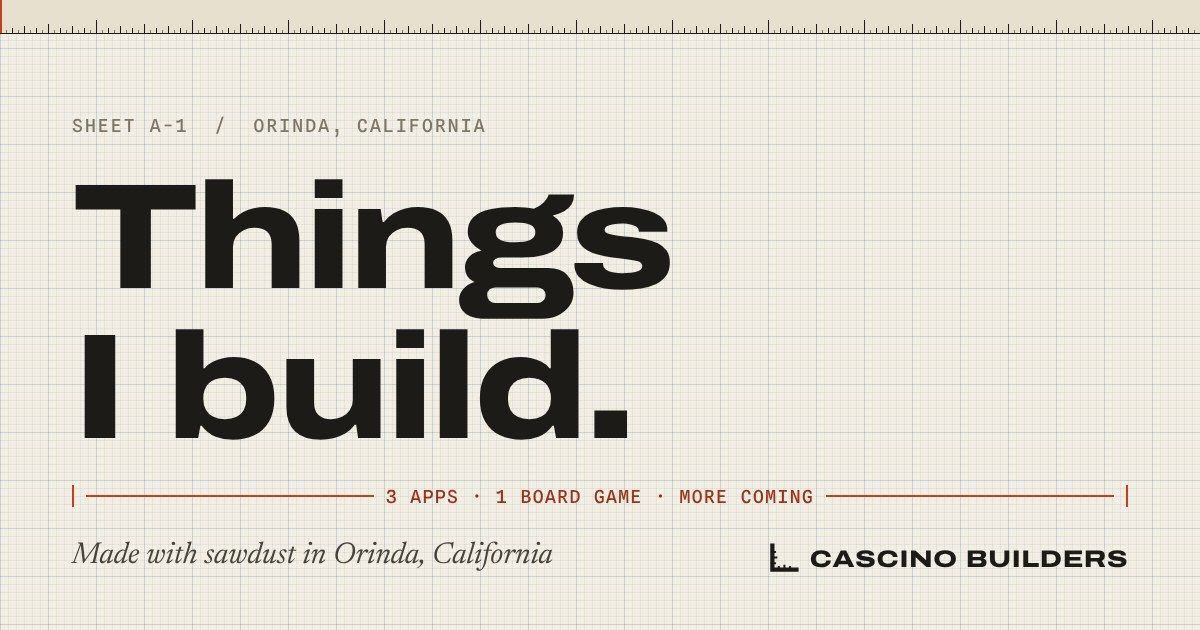
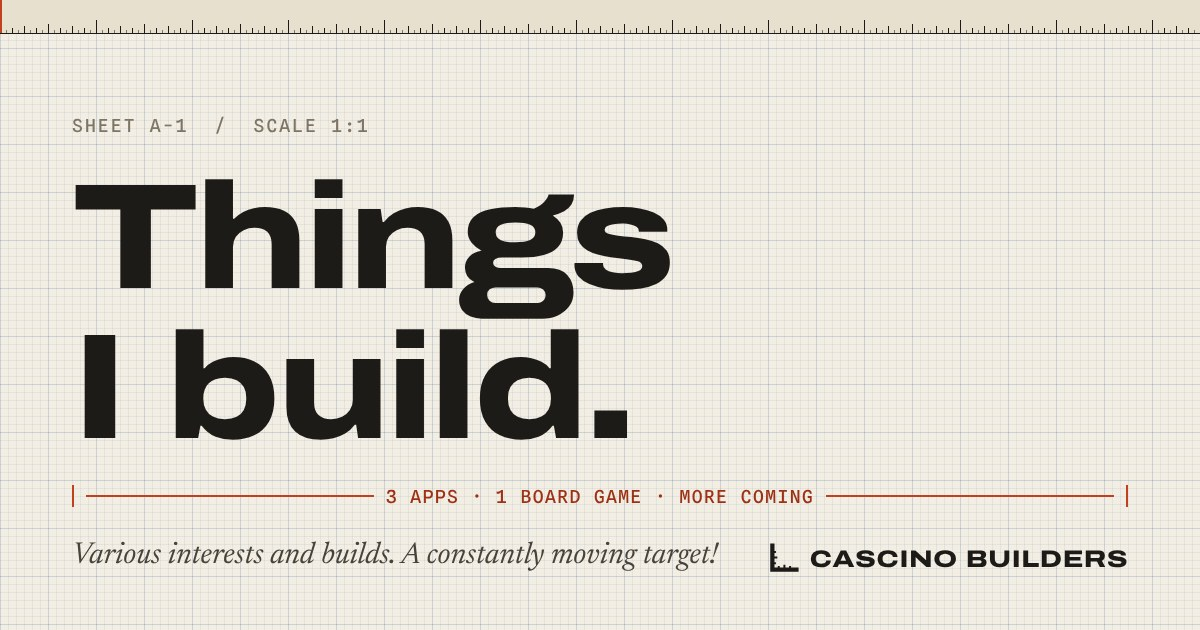
Remove location and personal details from the site
- Drop every mention of the town from pages, meta tags, the hero, the stamp,
  the title-block footer and the OG image. The footer's Location cell
  becomes a Contact link.
- CLAUDE.md: no personal details rule, and the voice notes no longer use a
  name.

Claude-Session: https://claude.ai/code/session_01YWdLQoNbp7ceFNzdbetSKz

Changed region(s): [[0.0617, 0.8444, 0.5858, 0.9048], [0.2158, 0.181, 0.4008, 0.2111]]

diff --git a/index.html b/index.html
@@ -4,7 +4,7 @@
 <meta charset="utf-8">
 <meta name="viewport" content="width=device-width, initial-scale=1, viewport-fit=cover">
 <title>Cascino Builders · Things I build</title>
-<meta name="description" content="Various interests and builds to explore those interests. iPhone and Apple Watch apps so far (StairSmith, Kitchen Counter, Rep Track), plus other stuff. Made in Orinda, California.">
+<meta name="description" content="Various interests and builds to explore those interests. iPhone and Apple Watch apps so far (StairSmith, Kitchen Counter, Rep Track), plus other stuff.">
 <meta name="theme-color" content="#f3eee3">
 <link rel="canonical" href="https://cascinobuilders.com/">
 <meta property="og:type" content="website">
@@ -14,7 +14,7 @@
 <meta property="og:image" content="https://cascinobuilders.com/og.jpg">
 <meta property="og:image:width" content="1200">
 <meta property="og:image:height" content="630">
-<meta property="og:image:alt" content="Cascino Builders: Things I build. Made with sawdust in Orinda, California.">
+<meta property="og:image:alt" content="Cascino Builders: Things I build.">
 <meta name="twitter:card" content="summary_large_image">
 <link rel="icon" href="/favicon.svg" type="image/svg+xml">
 <link rel="apple-touch-icon" href="/apple-touch-icon.png">
@@ -43,7 +43,7 @@
 
 <!-- ============ Hero ============ -->
 <section class="hero">
-  <p class="label hero-sheet"><span>Sheet A-1</span><span>Orinda, California</span><span>Scale 1:1</span></p>
+  <p class="label hero-sheet"><span>Sheet A-1</span><span>Scale 1:1</span></p>
 
   <div class="hero-title">
     <h1 class="display"><span class="w w1">Things</span> <span class="w w2">I build.</span></h1>
@@ -60,10 +60,10 @@
       <a class="btn" href="#apps">Have a look <svg viewBox="0 0 14 14" fill="none" stroke="currentColor" stroke-width="1.8" aria-hidden="true"><path d="M7 1v11M2.5 7.5 7 12l4.5-4.5"/></svg></a>
       <a class="btn ghost" href="mailto:support@cascinobuilders.com">Email me</a>
     </div>
-    <div class="stamp" aria-label="Stamp: Cascino Builders, Orinda, California">
+    <div class="stamp" aria-label="Stamp: Cascino Builders workshop">
       <span class="stamp-top">Cascino Builders</span>
-      <span class="stamp-mid">Orinda</span>
-      <span class="stamp-bot">California</span>
+      <span class="stamp-mid">Workshop</span>
+      <span class="stamp-bot">Sheet A-1</span>
     </div>
   </div>
 </section>
@@ -285,7 +285,7 @@
 <footer class="title-block">
   <div class="tb-grid">
     <div><span class="label">Project</span><span class="v">Cascino Builders</span></div>
-    <div><span class="label">Location</span><span class="v">Orinda, CA</span></div>
+    <div><span class="label">Contact</span><span class="v"><a href="mailto:support@cascinobuilders.com">Email</a></span></div>
     <div><span class="label">Sheet</span><span class="v">A-1 of 1</span></div>
     <div><span class="label">Rev.</span><span class="v">Nov 2026</span></div>
     <div class="tb-links">
@@ -296,7 +296,7 @@
       <a href="mailto:support@cascinobuilders.com">support@cascinobuilders.com</a>
     </div>
   </div>
-  <p class="tb-fine">© 2026 Cascino Builders. Made with sawdust in Orinda, California.</p>
+  <p class="tb-fine">© 2026 Cascino Builders. Made with sawdust.</p>
 </footer>
 
 <script src="/assets/site.js" defer></script>

diff --git a/kitchencounter/faq/index.html b/kitchencounter/faq/index.html
@@ -77,14 +77,14 @@
   <p>Not yet &mdash; it's on the roadmap. For now, data is stored locally and synced across your devices via iCloud.</p>
   <h2 data-n="05">Contact</h2>
   <h3>Who made Kitchen Counter?</h3>
-  <p>Built by Cascino Builders in Orinda, CA. Bug reports, feedback, or feature ideas welcome &mdash; email us or tap <strong>Send Feedback</strong> in Settings.</p>
+  <p>Built by Cascino Builders. Bug reports, feedback, or feature ideas welcome &mdash; email us or tap <strong>Send Feedback</strong> in Settings.</p>
   <a href="mailto:support@cascinobuilders.com" class="btn contact">Email Support</a>
 </main>
 
 <footer class="title-block">
   <div class="tb-grid">
     <div><span class="label">Project</span><span class="v">Kitchen Counter</span></div>
-    <div><span class="label">Location</span><span class="v">Orinda, CA</span></div>
+    <div><span class="label">Contact</span><span class="v"><a href="mailto:support@cascinobuilders.com">Email</a></span></div>
     <div><span class="label">Sheet</span><span class="v">KC-1 FAQ</span></div>
     <div><span class="label">Rev.</span><span class="v">Nov 2026</span></div>
     <div class="tb-links">
@@ -94,7 +94,7 @@
       <a href="mailto:support@cascinobuilders.com">support@cascinobuilders.com</a>
     </div>
   </div>
-  <p class="tb-fine">© 2026 Cascino Builders. Made with sawdust in Orinda, California.</p>
+  <p class="tb-fine">© 2026 Cascino Builders. Made with sawdust.</p>
 </footer>
 </body>
 </html>

diff --git a/stairsmith/index.html b/stairsmith/index.html
@@ -222,7 +222,7 @@
 <footer class="title-block">
   <div class="tb-grid">
     <div><span class="label">Project</span><span class="v">StairSmith</span></div>
-    <div><span class="label">Location</span><span class="v">Orinda, CA</span></div>
+    <div><span class="label">Contact</span><span class="v"><a href="mailto:support@cascinobuilders.com">Email</a></span></div>
     <div><span class="label">Sheet</span><span class="v">SS-1 Overview</span></div>
     <div><span class="label">Rev.</span><span class="v">Nov 2026</span></div>
     <div class="tb-links">
@@ -232,7 +232,7 @@
       <a href="mailto:support@cascinobuilders.com?subject=StairSmith">support@cascinobuilders.com</a>
     </div>
   </div>
-  <p class="tb-fine">© 2026 Cascino Builders. Made with sawdust in Orinda, California.</p>
+  <p class="tb-fine">© 2026 Cascino Builders. Made with sawdust.</p>
 </footer>
 
     <script>

diff --git a/kitchencounter/privacy/index.html b/kitchencounter/privacy/index.html
@@ -51,7 +51,7 @@
 <footer class="title-block">
   <div class="tb-grid">
     <div><span class="label">Project</span><span class="v">Kitchen Counter</span></div>
-    <div><span class="label">Location</span><span class="v">Orinda, CA</span></div>
+    <div><span class="label">Contact</span><span class="v"><a href="mailto:support@cascinobuilders.com">Email</a></span></div>
     <div><span class="label">Sheet</span><span class="v">KC-3 Privacy</span></div>
     <div><span class="label">Rev.</span><span class="v">April 6, 2026</span></div>
     <div class="tb-links">
@@ -61,7 +61,7 @@
       <a href="mailto:support@cascinobuilders.com">support@cascinobuilders.com</a>
     </div>
   </div>
-  <p class="tb-fine">© 2026 Cascino Builders. Made with sawdust in Orinda, California.</p>
+  <p class="tb-fine">© 2026 Cascino Builders. Made with sawdust.</p>
 </footer>
 </body>
 </html>

diff --git a/stairsmith/privacy/index.html b/stairsmith/privacy/index.html
@@ -67,7 +67,7 @@
 <footer class="title-block">
   <div class="tb-grid">
     <div><span class="label">Project</span><span class="v">StairSmith</span></div>
-    <div><span class="label">Location</span><span class="v">Orinda, CA</span></div>
+    <div><span class="label">Contact</span><span class="v"><a href="mailto:support@cascinobuilders.com">Email</a></span></div>
     <div><span class="label">Sheet</span><span class="v">SS-3 Privacy</span></div>
     <div><span class="label">Rev.</span><span class="v">April 27, 2026</span></div>
     <div class="tb-links">
@@ -77,7 +77,7 @@
       <a href="mailto:support@cascinobuilders.com">support@cascinobuilders.com</a>
     </div>
   </div>
-  <p class="tb-fine">© 2026 Cascino Builders. Made with sawdust in Orinda, California.</p>
+  <p class="tb-fine">© 2026 Cascino Builders. Made with sawdust.</p>
 </footer>
 </body>
 </html>

diff --git a/kitchencounter/support/index.html b/kitchencounter/support/index.html
@@ -57,7 +57,7 @@
 <footer class="title-block">
   <div class="tb-grid">
     <div><span class="label">Project</span><span class="v">Kitchen Counter</span></div>
-    <div><span class="label">Location</span><span class="v">Orinda, CA</span></div>
+    <div><span class="label">Contact</span><span class="v"><a href="mailto:support@cascinobuilders.com">Email</a></span></div>
     <div><span class="label">Sheet</span><span class="v">KC-2 Support</span></div>
     <div><span class="label">Rev.</span><span class="v">Nov 2026</span></div>
     <div class="tb-links">
@@ -67,7 +67,7 @@
       <a href="mailto:support@cascinobuilders.com">support@cascinobuilders.com</a>
     </div>
   </div>
-  <p class="tb-fine">© 2026 Cascino Builders. Made with sawdust in Orinda, California.</p>
+  <p class="tb-fine">© 2026 Cascino Builders. Made with sawdust.</p>
 </footer>
 </body>
 </html>

diff --git a/reptrack/privacy/index.html b/reptrack/privacy/index.html
@@ -48,7 +48,7 @@
 <footer class="title-block">
   <div class="tb-grid">
     <div><span class="label">Project</span><span class="v">Rep Track</span></div>
-    <div><span class="label">Location</span><span class="v">Orinda, CA</span></div>
+    <div><span class="label">Contact</span><span class="v"><a href="mailto:support@cascinobuilders.com">Email</a></span></div>
     <div><span class="label">Sheet</span><span class="v">RT-2 Privacy</span></div>
     <div><span class="label">Rev.</span><span class="v">March 1, 2026</span></div>
     <div class="tb-links">
@@ -57,7 +57,7 @@
       <a href="mailto:support@cascinobuilders.com">support@cascinobuilders.com</a>
     </div>
   </div>
-  <p class="tb-fine">© 2026 Cascino Builders. Made with sawdust in Orinda, California.</p>
+  <p class="tb-fine">© 2026 Cascino Builders. Made with sawdust.</p>
 </footer>
 </body>
 </html>

diff --git a/stairsmith/support/index.html b/stairsmith/support/index.html
@@ -61,7 +61,7 @@
 <footer class="title-block">
   <div class="tb-grid">
     <div><span class="label">Project</span><span class="v">StairSmith</span></div>
-    <div><span class="label">Location</span><span class="v">Orinda, CA</span></div>
+    <div><span class="label">Contact</span><span class="v"><a href="mailto:support@cascinobuilders.com">Email</a></span></div>
     <div><span class="label">Sheet</span><span class="v">SS-2 Support</span></div>
     <div><span class="label">Rev.</span><span class="v">Nov 2026</span></div>
     <div class="tb-links">
@@ -71,7 +71,7 @@
       <a href="mailto:support@cascinobuilders.com">support@cascinobuilders.com</a>
     </div>
   </div>
-  <p class="tb-fine">© 2026 Cascino Builders. Made with sawdust in Orinda, California.</p>
+  <p class="tb-fine">© 2026 Cascino Builders. Made with sawdust.</p>
 </footer>
 </body>
 </html>

diff --git a/404.html b/404.html
@@ -43,7 +43,7 @@
 <footer class="title-block">
   <div class="tb-grid">
     <div><span class="label">Project</span><span class="v">Cascino Builders</span></div>
-    <div><span class="label">Location</span><span class="v">Orinda, CA</span></div>
+    <div><span class="label">Contact</span><span class="v"><a href="mailto:support@cascinobuilders.com">Email</a></span></div>
     <div><span class="label">Sheet</span><span class="v">404</span></div>
     <div><span class="label">Rev.</span><span class="v">Nov 2026</span></div>
     <div class="tb-links">
@@ -53,7 +53,7 @@
       <a href="mailto:support@cascinobuilders.com">support@cascinobuilders.com</a>
     </div>
   </div>
-  <p class="tb-fine">© 2026 Cascino Builders. Made with sawdust in Orinda, California.</p>
+  <p class="tb-fine">© 2026 Cascino Builders. Made with sawdust.</p>
 </footer>
 </body>
 </html>

diff --git a/tools/og.html b/tools/og.html
@@ -22,12 +22,12 @@
 <div id="og">
   <div class="ruler"></div>
   <div class="in">
-    <p class="label">Sheet A-1 &nbsp;/&nbsp; Orinda, California</p>
+    <p class="label">Sheet A-1 &nbsp;/&nbsp; Scale 1:1</p>
     <h1 class="display">Things<br>I build.</h1>
     <div class="dl"><i></i><b></b><span>3 apps · 1 board game · more coming</span><b></b><i></i></div>
   </div>
   <div class="foot">
-    <p>Made with sawdust in Orinda, California</p>
+    <p>Various interests and builds. A constantly moving target!</p>
     <span class="brand"><svg viewBox="0 0 24 24" fill="none" stroke="currentColor"><path d="M4.5 2.5v17h17" stroke-width="3" stroke-linecap="square"/><path d="M9 19.5v-2.5M13 19.5v-3.5M17 19.5v-2.5M4.5 15h2.5M4.5 11h3.5M4.5 7h2.5" stroke-width="1.4"/></svg>Cascino Builders</span>
   </div>
 </div>

diff --git a/CLAUDE.md b/CLAUDE.md
@@ -30,12 +30,14 @@ Keep every new page inside this system; don't drift back to a generic app-landin
   fully with JS off.
 
 ## Copy
-- Write in the first person: one person runs the workshop. Sound like Taylor: short,
+- Write in the first person: one person runs the workshop. Sound like the owner: short,
   casual, direct sentences and fragments, the odd dry joke ("dads with a saw",
   "That's it.", "Made with sawdust"), and an exclamation mark now and then. Not polished
   marketing prose, no semicolons, no tidy lists of three.
-- The home intro is Taylor's own words; don't rewrite it: "Various interests and builds
+- The home intro is the owner's own words; don't rewrite it: "Various interests and builds
   to explore those interests. A constantly moving target!"
+- No personal details: no town, address, real name, personal email or photos with
+  location data. The only contact is support@cascinobuilders.com.
 - Only claim what the app's own privacy, support or FAQ page says. Don't invent
   features, prices or App Store links. Prices go on the app's own page, not the home page.
 - Headlines say what the thing is. No puns, idioms or wordplay taglines.
